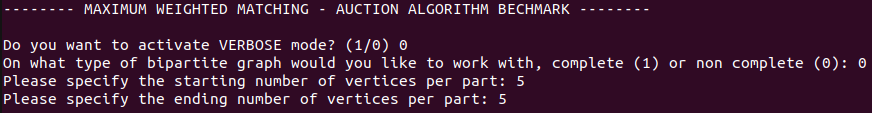
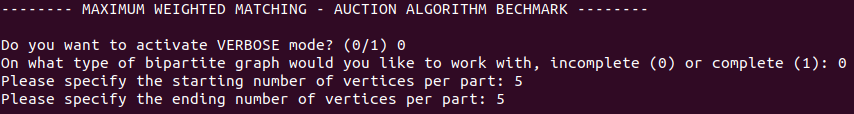
fix

diff --git a/app/include/Utils.hpp b/app/include/Utils.hpp
@@ -13,9 +13,9 @@
 void get_input(int& min, int& max, int& verbose, int& fully_connected)
 {
 	std::cout << "-------- MAXIMUM WEIGHTED MATCHING - AUCTION ALGORITHM BECHMARK --------\n\n";
-	std::cout << "Do you want to activate VERBOSE mode? (1/0) ";
+	std::cout << "Do you want to activate VERBOSE mode? (0/1) ";
 	std::cin >> verbose;
-	std::cout << "On what type of bipartite graph would you like to work with, complete (1) or incomplete (0): ";
+	std::cout << "On what type of bipartite graph would you like to work with, incomplete (0) or complete (1): ";
 	std::cin >> fully_connected;
 	std::cout << "Please specify the starting number of vertices per part: ";
 	std::cin >> min;

diff --git a/README.md b/README.md
@@ -52,4 +52,4 @@ In addition, in both strategies we will get the total cost of the matching and e
 
 	![](screenshots/console_3.png)
 
-When the benchmark is finished the application generates a resulting *.csv* file stored into the */results* directory and named like so: **complete / nonComplete + starting number of vertices + ending number of vertices + datetime .csv**. This file is generated in order to have a look at the complete score of all the algorithms.
+When the benchmark is finished the application generates a resulting *.csv* file stored into the */results* directory and named like so: **complete / incomplete + starting number of vertices + ending number of vertices + datetime .csv**. This file is generated in order to have a look at the complete score of all the algorithms.
